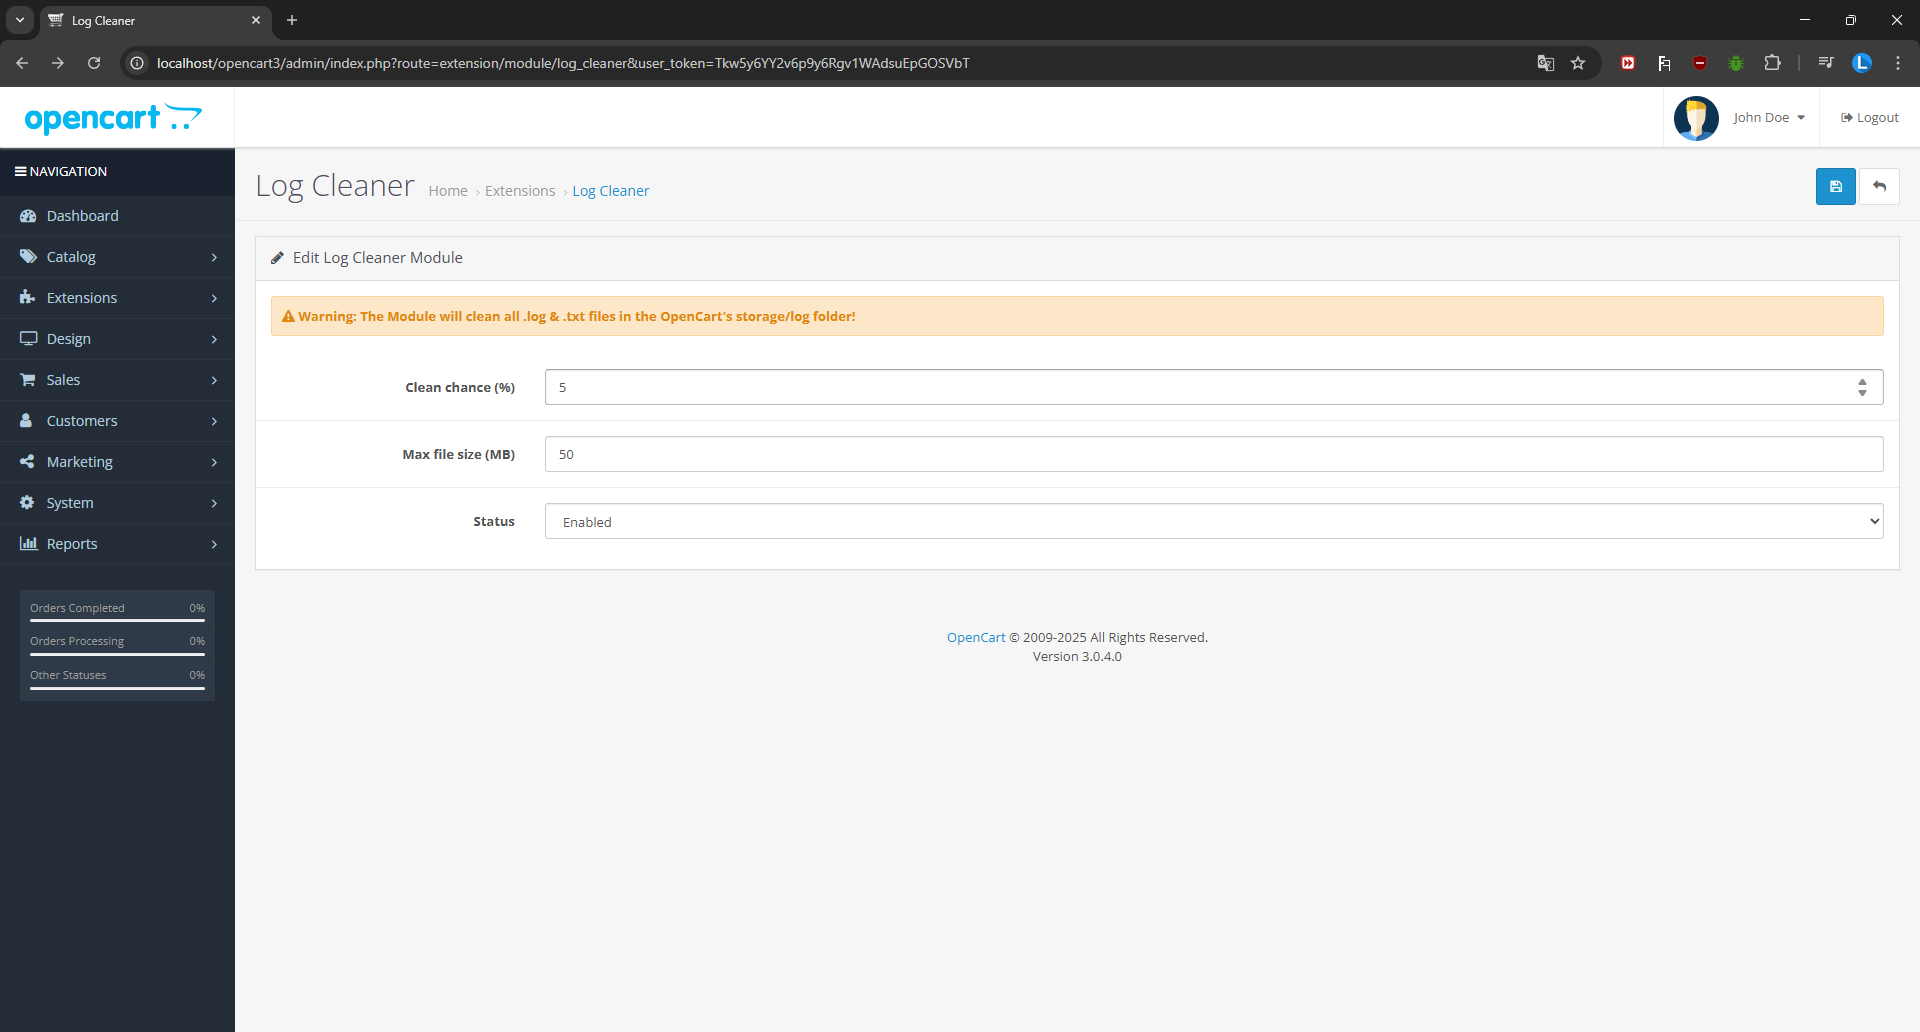
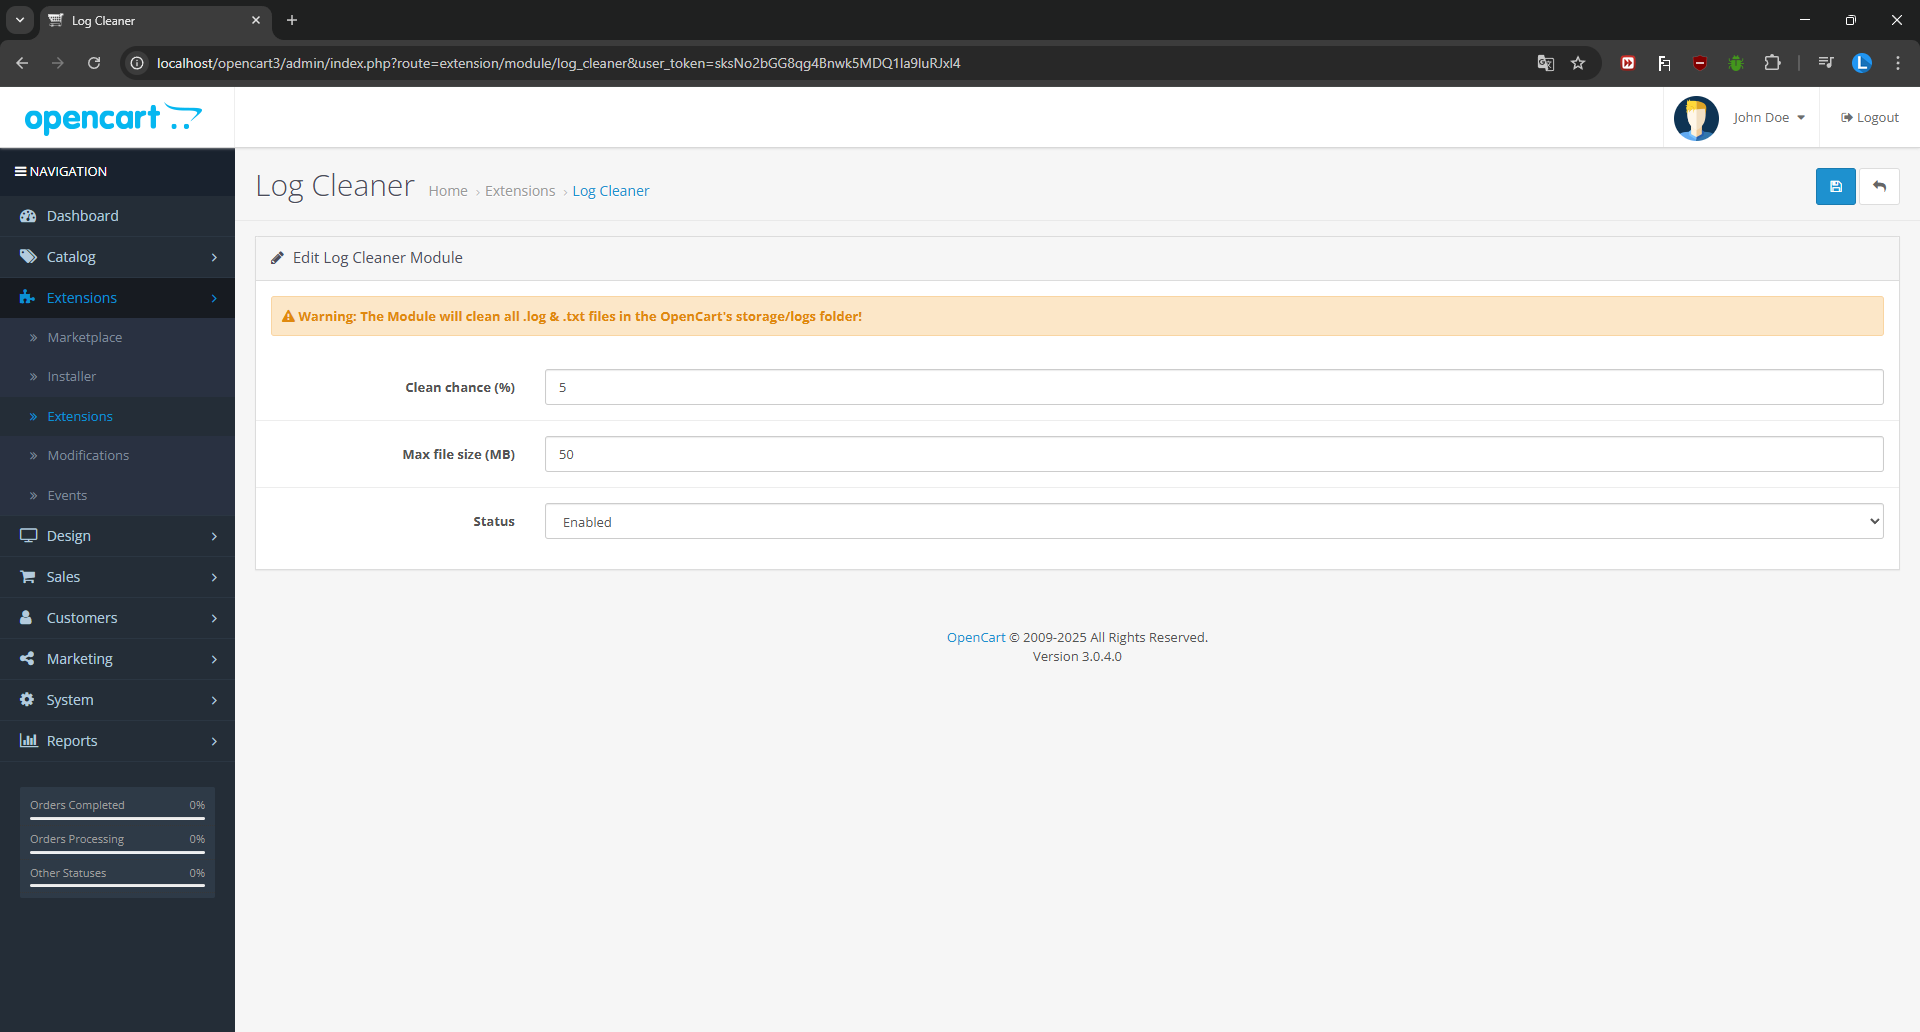
Szövegmódosítás

diff --git a/opencart3/upload/admin/language/en-gb/extension/module/log_cleaner.php b/opencart3/upload/admin/language/en-gb/extension/module/log_cleaner.php
@@ -6,7 +6,7 @@ $_['heading_title']    = 'Log Cleaner';
 $_['text_extension']   = 'Extensions';
 $_['text_success']     = 'Success: You have modified Log Cleaner module!';
 $_['text_edit']        = 'Edit Log Cleaner Module';
-$_['text_log_cleaner_info']        = 'Warning: The Module will clean all .log & .txt files in the OpenCart\'s storage/log folder!';
+$_['text_log_cleaner_info']        = 'Warning: The Module will clean all .log & .txt files in the OpenCart\'s storage/logs folder!';
 
 // Entry
 $_['entry_status']     = 'Status';

diff --git a/opencart4/admin/language/en-gb/module/log_cleaner.php b/opencart4/admin/language/en-gb/module/log_cleaner.php
@@ -6,7 +6,7 @@ $_['heading_title']    = 'Log Cleaner';
 $_['text_extension']   = 'Extensions';
 $_['text_success']     = 'Success: You have modified Log Cleaner module!';
 $_['text_edit']        = 'Edit Log Cleaner Module';
-$_['text_log_cleaner_info']        = 'Warning: The Module will clean all .log & .txt files in the OpenCart\'s storage/log folder!';
+$_['text_log_cleaner_info']        = 'Warning: The Module will clean all .log & .txt files in the OpenCart\'s storage/logs folder!';
 
 // Entry
 $_['entry_status']     = 'Status';
